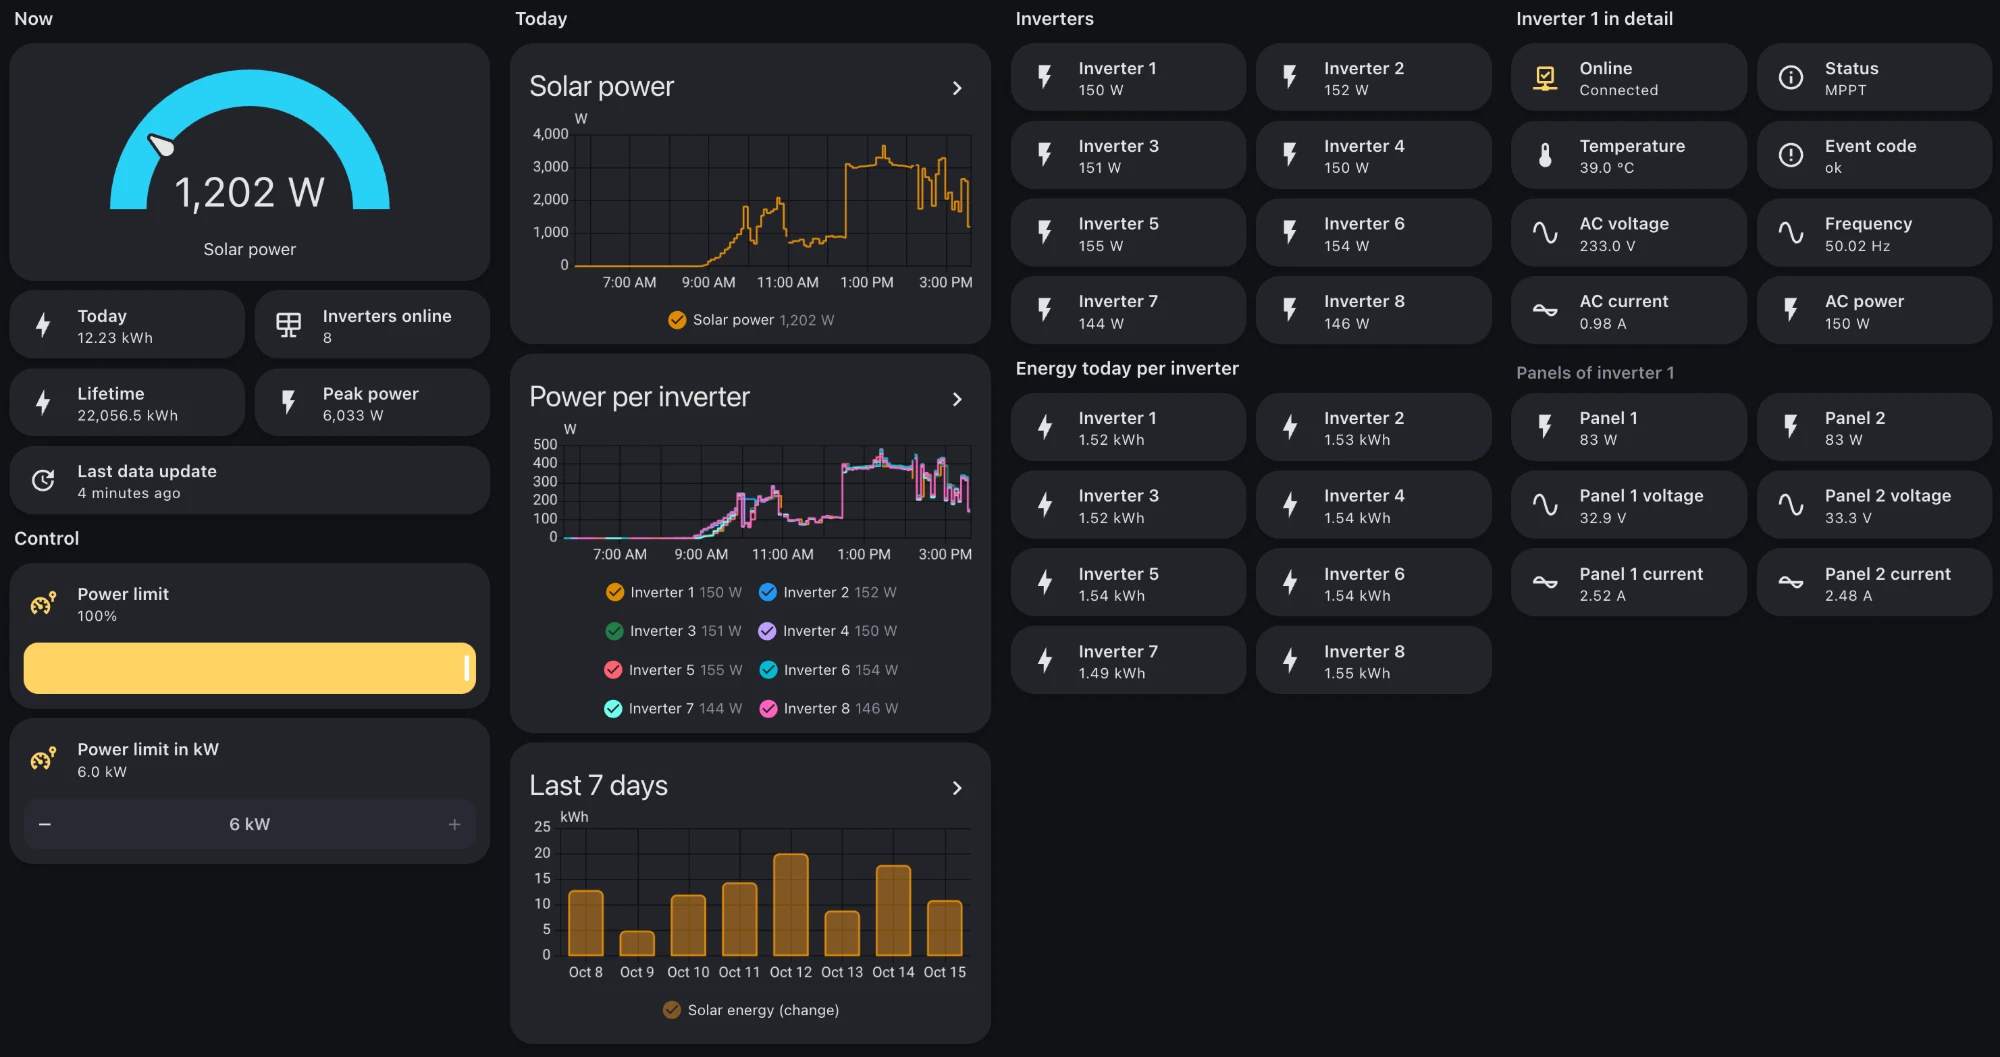
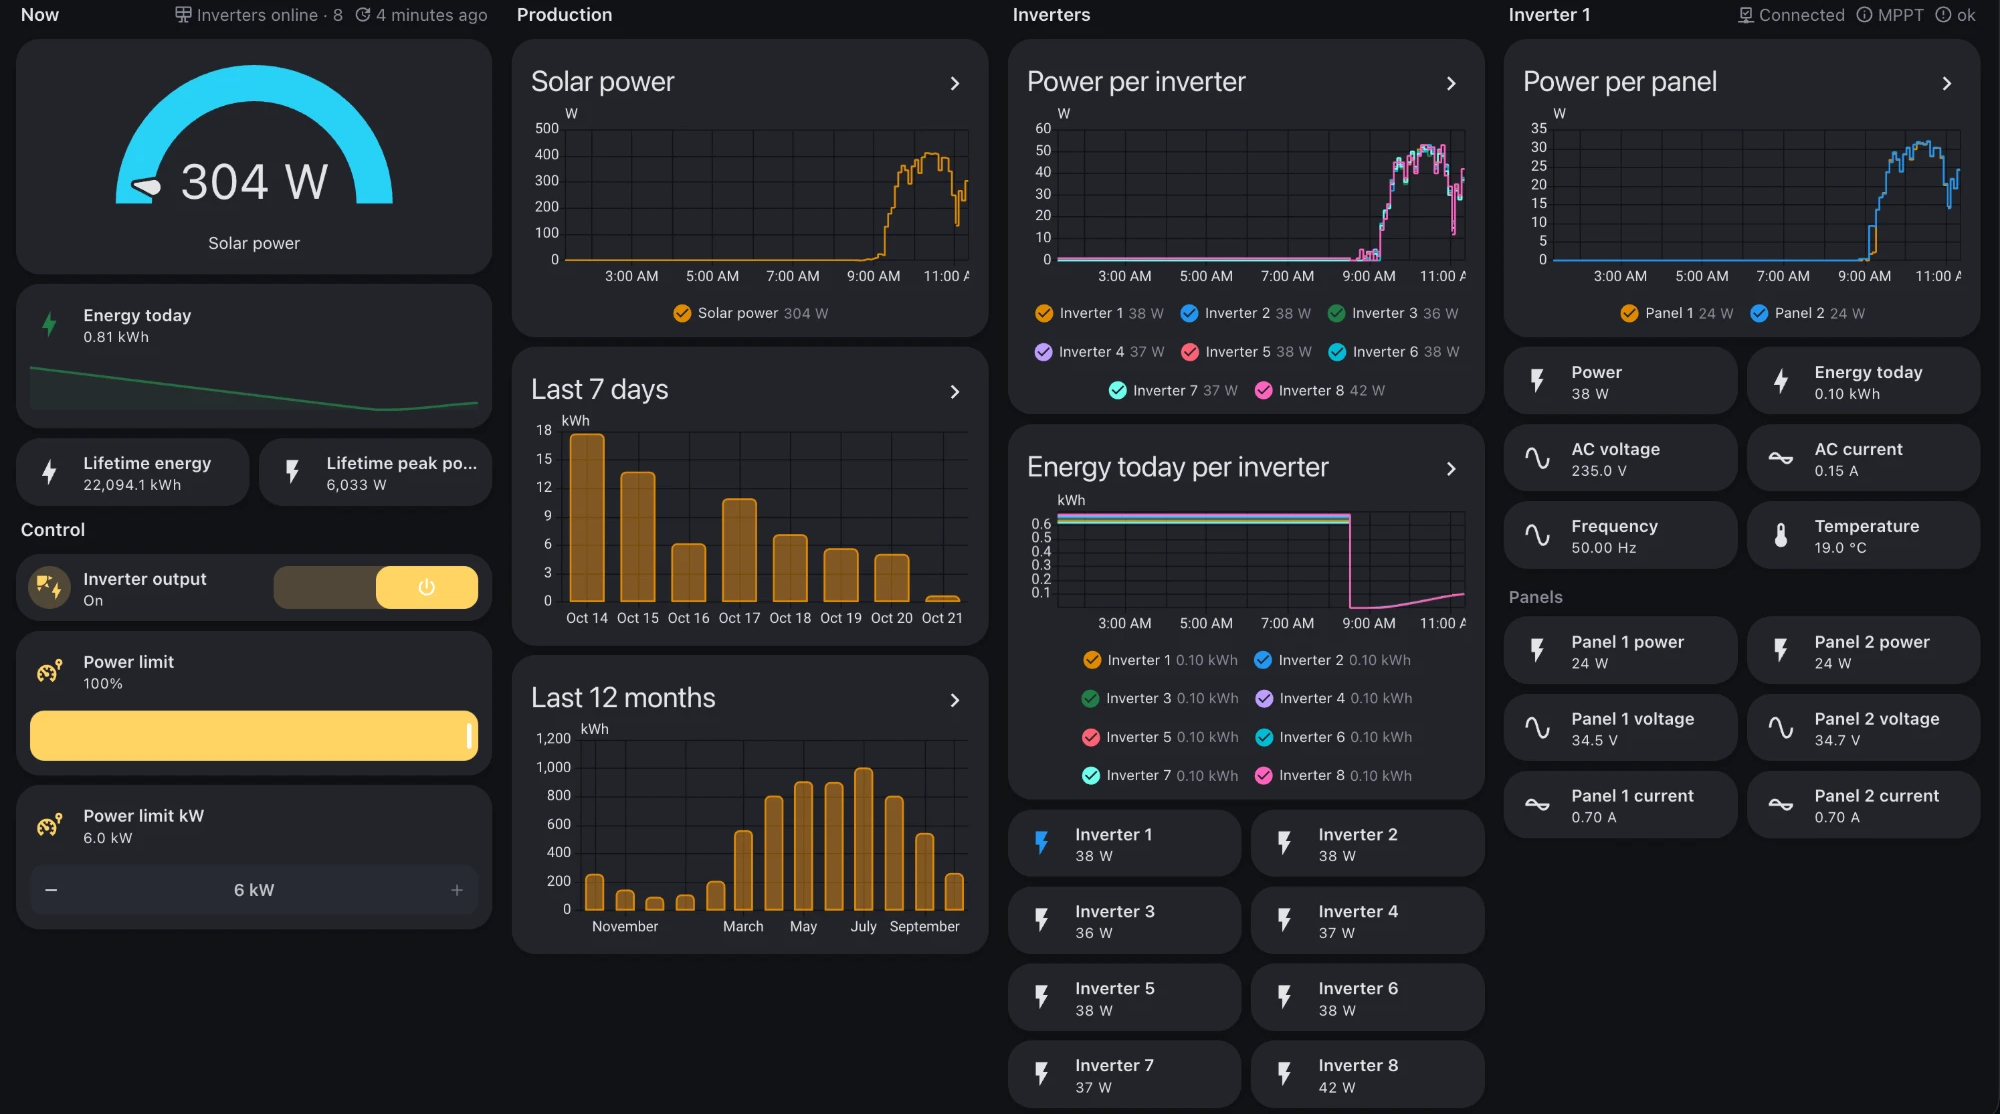
README: new screenshots with the Inverter output switch

diff --git a/README.md b/README.md
@@ -10,7 +10,7 @@
 Fully local Home Assistant integration for solar panels with APsystems
 microinverters and an ECU, over Modbus TCP.
 
-<img src="images/dashboard.png" alt="Dashboard with solar power, energy, power limit and every microinverter down to each panel">
+<img src="images/dashboard.png" alt="Dashboard with solar power, energy, inverter output, power limit and every microinverter down to each panel">
 
 Features:
 
@@ -119,7 +119,7 @@ whole percent. 100 is no limit. Set it by hand or with `number.set_value`.
 - If an inverter stays limited, set the limit to 100. If that does not help,
   switch the ECU off for a minute.
 
-<img src="images/ecu.png" alt="ECU device with the power limit in percent and in kW" width="360">
+<img src="images/ecu.png" alt="ECU device with inverter output and the power limit in percent and in kW" width="360">
 
 Example: no export at negative feed-in prices. Replace the entity IDs with
 yours.
